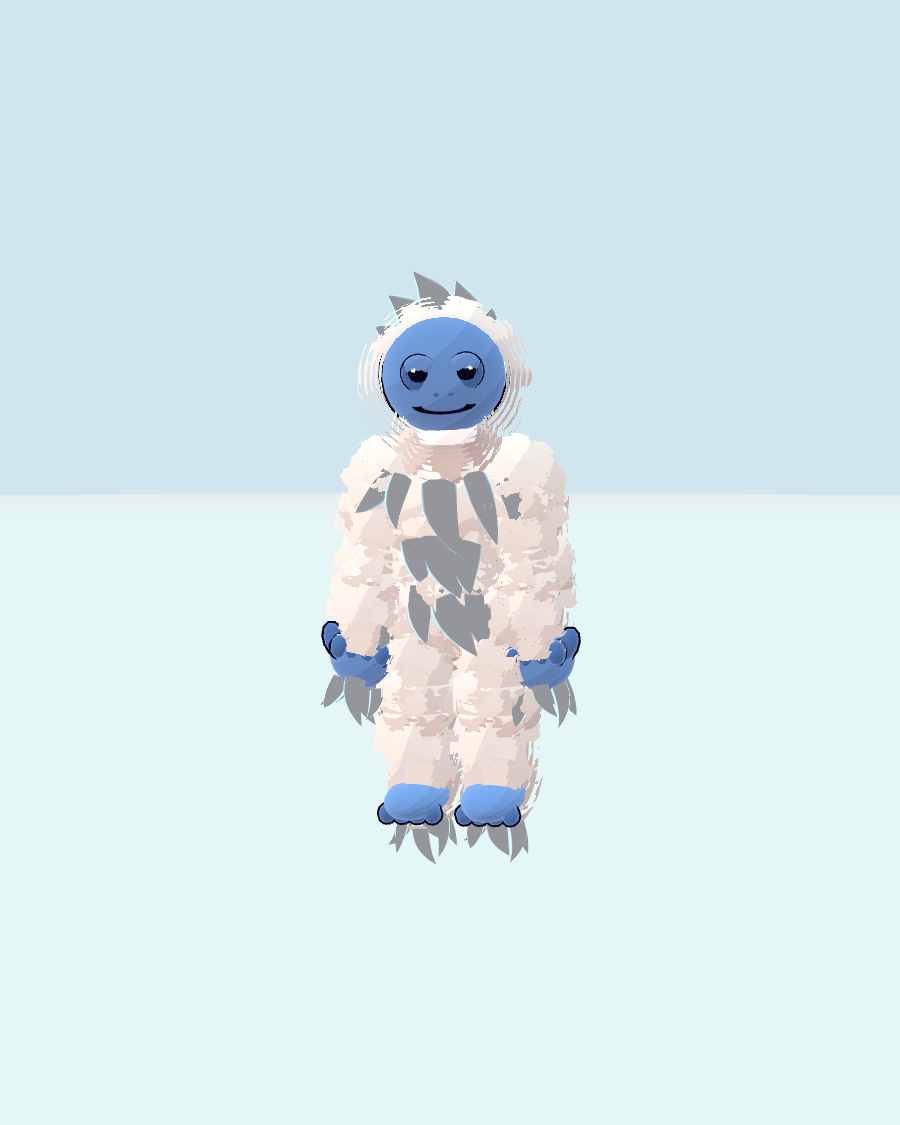
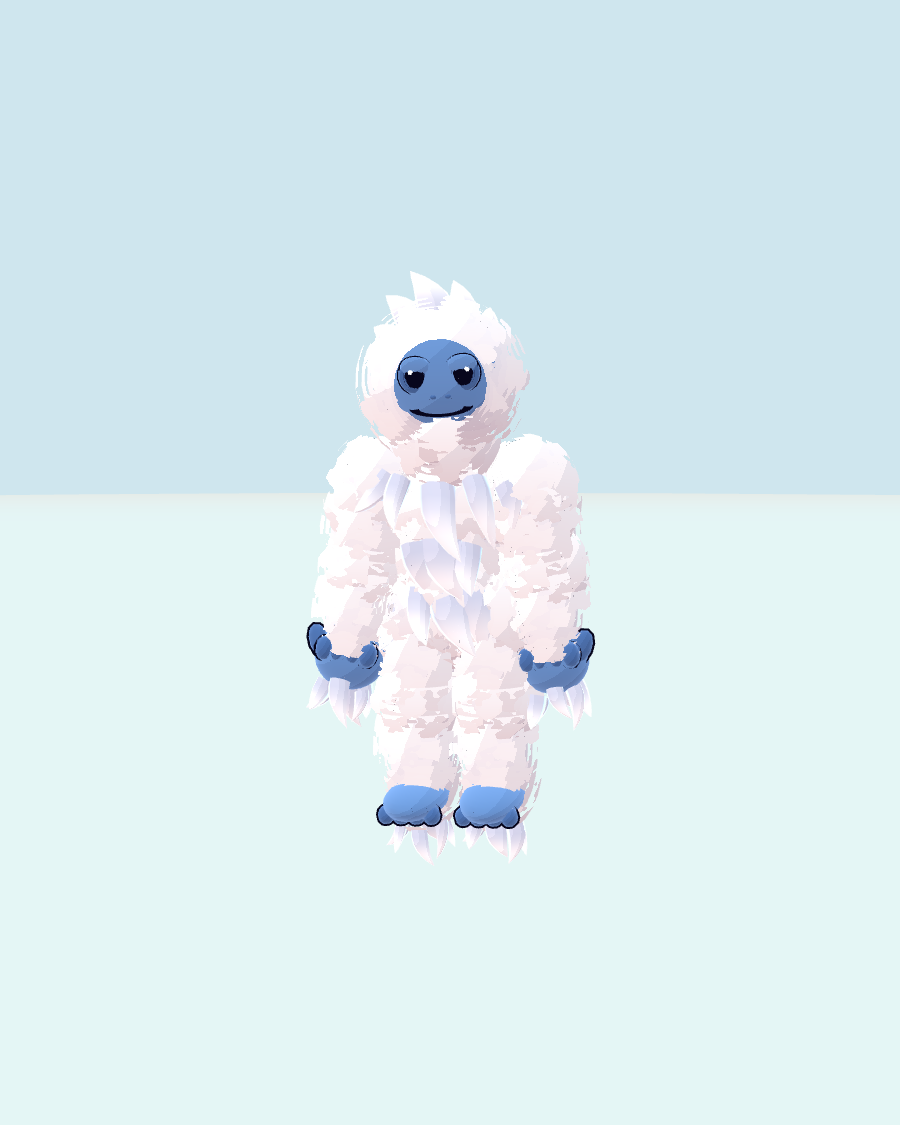
Lofi: white fur shells over the head and arms; kill the dark caps, cool the fur, narrow the waist
- caps get vertex colours (they were rendering with no colour attribute, which
  is what made the crest and ruff read as dark grey blades)
- head fur covers the whole skull again: the bare zone is now the face cap's
  own cone (z-dot cut), not a plane through the head
- cool emissive floor on every fur shell removes the tan/pink patches
- arms stand out at +-0.305 with a narrower waist and hip shell so the legs read

Changed region(s): [[0.3422, 0.2489, 0.6844, 0.7778]]

diff --git a/src/char_lofi.js b/src/char_lofi.js
@@ -14,7 +14,7 @@ const SKIN = 0x6c9bdc, SKIN_D = 0x4d76ba, SKIN_L = 0x8fb6ea, FUR_SHADE = 0xbfc4d
 // ---- shell fur ---------------------------------------------------------------
 // one material per fur layer: push the shell out along its normals, then fray it with smooth 3D value noise.
 function furLayer(off, dens, color, cutZ = 0) {
-  const m = new THREE.MeshToonMaterial({ color, gradientMap: gradient });
+  const m = new THREE.MeshToonMaterial({ color, gradientMap: gradient, emissive: 0x9aa4d2, emissiveIntensity: .3 });
   m.customProgramCacheKey = () => 'lofifur' + off + cutZ;
   m.onBeforeCompile = sh => {
     sh.uniforms.uOff = { value: off };
@@ -32,7 +32,7 @@ float fNoise(vec3 x){ vec3 i = floor(x), f = fract(x); f = f * f * (3.0 - 2.0 * 
   return mix(mix(mix(fHash(i), fHash(i + vec3(1,0,0)), f.x), mix(fHash(i + vec3(0,1,0)), fHash(i + vec3(1,1,0)), f.x), f.y),
              mix(mix(fHash(i + vec3(0,0,1)), fHash(i + vec3(1,0,1)), f.x), mix(fHash(i + vec3(0,1,1)), fHash(i + vec3(1,1,1)), f.x), f.y), f.z); }
 ` + sh.fragmentShader.replace('void main() {', `void main() {
-  if (uCutZ > 0.0 && vF.z > uCutZ && vF.y > 0.02 && vF.y < 0.56) discard;
+  if (uCutZ > 0.0) { vec3 d = normalize(vF - vec3(0.0, 0.27, 0.0)); if (d.z > uCutZ) discard; }
   float nz = fNoise(vF * uFreq) * 0.7 + fNoise(vF * uFreq * 2.4) * 0.3;
   if (nz < uDens) discard;`);
   };
@@ -48,12 +48,15 @@ function capGeo(len, rad, bend, flat = .78) {
   }
   const g = new THREE.LatheGeometry(pts, 7);
   g.scale(1, 1, flat);
-  const p = g.attributes.position, v = new THREE.Vector3();
+  const p = g.attributes.position, v = new THREE.Vector3(), c = new Float32Array(p.count * 3), col = new THREE.Color();
   for (let i = 0; i < p.count; i++) {
     v.fromBufferAttribute(p, i);
     const t = clamp(v.y / len);
     p.setXYZ(i, v.x + t * t * bend * len, v.y - t * t * len * .22, v.z + t * t * bend * len * .6);
+    col.setHex(FUR_SHADE).lerp(new THREE.Color(0xffffff), smooth(.15, .75, t));
+    c[i * 3] = col.r; c[i * 3 + 1] = col.g; c[i * 3 + 2] = col.b;
   }
+  g.setAttribute('color', new THREE.BufferAttribute(c, 3));
   g.computeVertexNormals();
   return g;
 }
@@ -92,17 +95,17 @@ export function makeLofi() {
   const furC = toon(0xfbfbff, { emissive: 0xeef0f8, emissiveIntensity: .4 }); addRim(furC, 0x8ae6ff, 2.6, .4);
   const skin = toon(SKIN, { emissive: 0x2c4f94, emissiveIntensity: .22 }); addRim(skin, 0x9cc4ff, 2.4, .4);
   const skinM = toon(SKIN_D, { emissive: 0x24406f, emissiveIntensity: .2 }), skinL = toon(SKIN_L, { emissive: 0x40649f, emissiveIntensity: .2 });
-  const capM = furMat(); capM.emissive.set(0xeef0f8); capM.emissiveIntensity = .35;
+  const capM = furMat(); capM.emissive.set(0xb9c2e0); capM.emissiveIntensity = .45;
   // five fur shells, greyer and denser inside, whiter and hairier outside
   const layers = [[.014, .07, 0xf1f3fa], [.030, .18, 0xf7f8fd], [.048, .3, 0xfcfcff], [.068, .42, 0xffffff], [.090, .55, 0xffffff]]
     .map(([off, dens, c]) => furLayer(off, dens, c));
   const headLayers = [[.014, .07, 0xf1f3fa], [.030, .18, 0xf7f8fd], [.048, .3, 0xfcfcff], [.068, .42, 0xffffff], [.090, .55, 0xffffff]]
-    .map(([off, dens, c]) => furLayer(off, dens, c, .07));
+    .map(([off, dens, c]) => furLayer(off, dens, c, Math.cos(.78)));
 
   const { root: body, j, parts } = humanoid({
-    hipsY: .94, pelvis: [.185, .155, .16], pelvisY: .05, torsoY: .02, torso: { dims: [.195, .315, .16], cy: .29 },
+    hipsY: .94, pelvis: [.185, .155, .16], pelvisY: .05, torsoY: .02, torso: { dims: [.175, .315, .15], cy: .29 },
     head: { y: .63, z: .075, cy: .27, dims: [.245, .235, .215] },
-    arm: { x: .25, y: .485, upper: [.115, .35], fore: [.10, .33], hand: [.15, .14, .135] },
+    arm: { x: .305, y: .485, upper: [.115, .35], fore: [.10, .33], hand: [.15, .14, .135] },
     leg: { x: .155, thigh: [.118, .38], shin: [.105, .40], foot: [.128, .075, .29] }, mat: furC, skin, th: 0,
   });
   const root = new THREE.Group(), rig = new THREE.Group(); root.add(rig); rig.add(body);
@@ -119,8 +122,8 @@ export function makeLofi() {
     return m;
   };
   const D = p => p.userData.dims;
-  part(j.torso, [[D(parts.torso), 0, .29], [[.225, .14, .175], 0, .40], [[.105, .12, .10], 0, .55], [[.19, .13, .17], 0, .13]]);
-  part(j.hips, [[D(parts.pelvis), 0, .05], [[.17, .13, .15], 0, -.03]]);
+  part(j.torso, [[D(parts.torso), 0, .29], [[.20, .13, .165], 0, .40], [[.105, .12, .10], 0, .55], [[.155, .12, .15], 0, .11]]);
+  part(j.hips, [[D(parts.pelvis), 0, .05], [[.15, .12, .14], 0, -.03]]);
   part(j.head, [[D(parts.head), 0, .27], [[.13, .13, .13], 0, .07]], headLayers);
   for (const n of ['L', 'R']) {
     part(j['arm' + n], [[[.118, .16, .118], 0, -.03], [D(parts['upper' + n]), 0, -.175]]);
